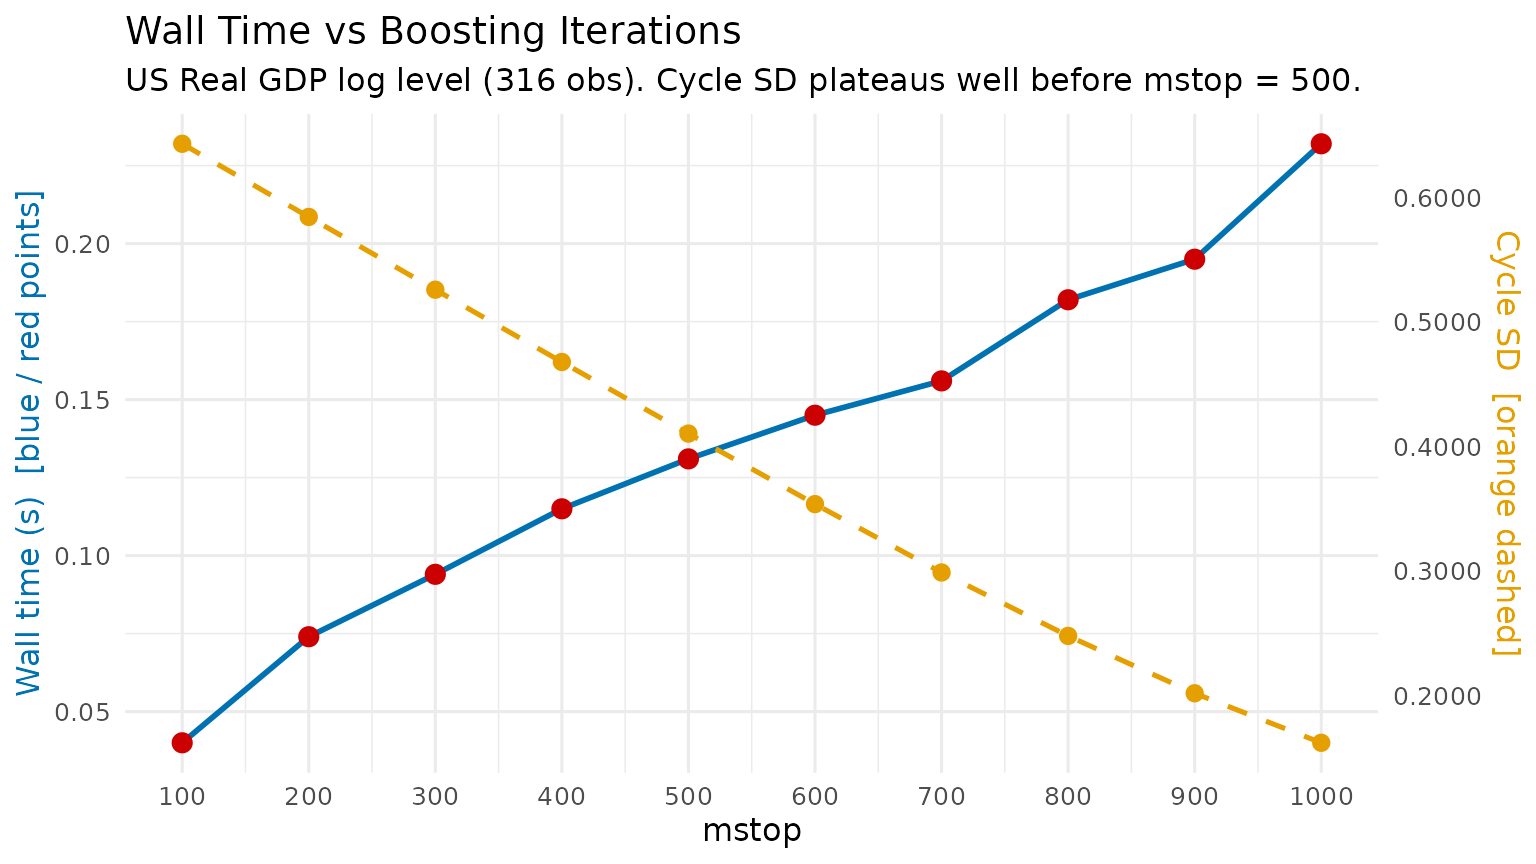
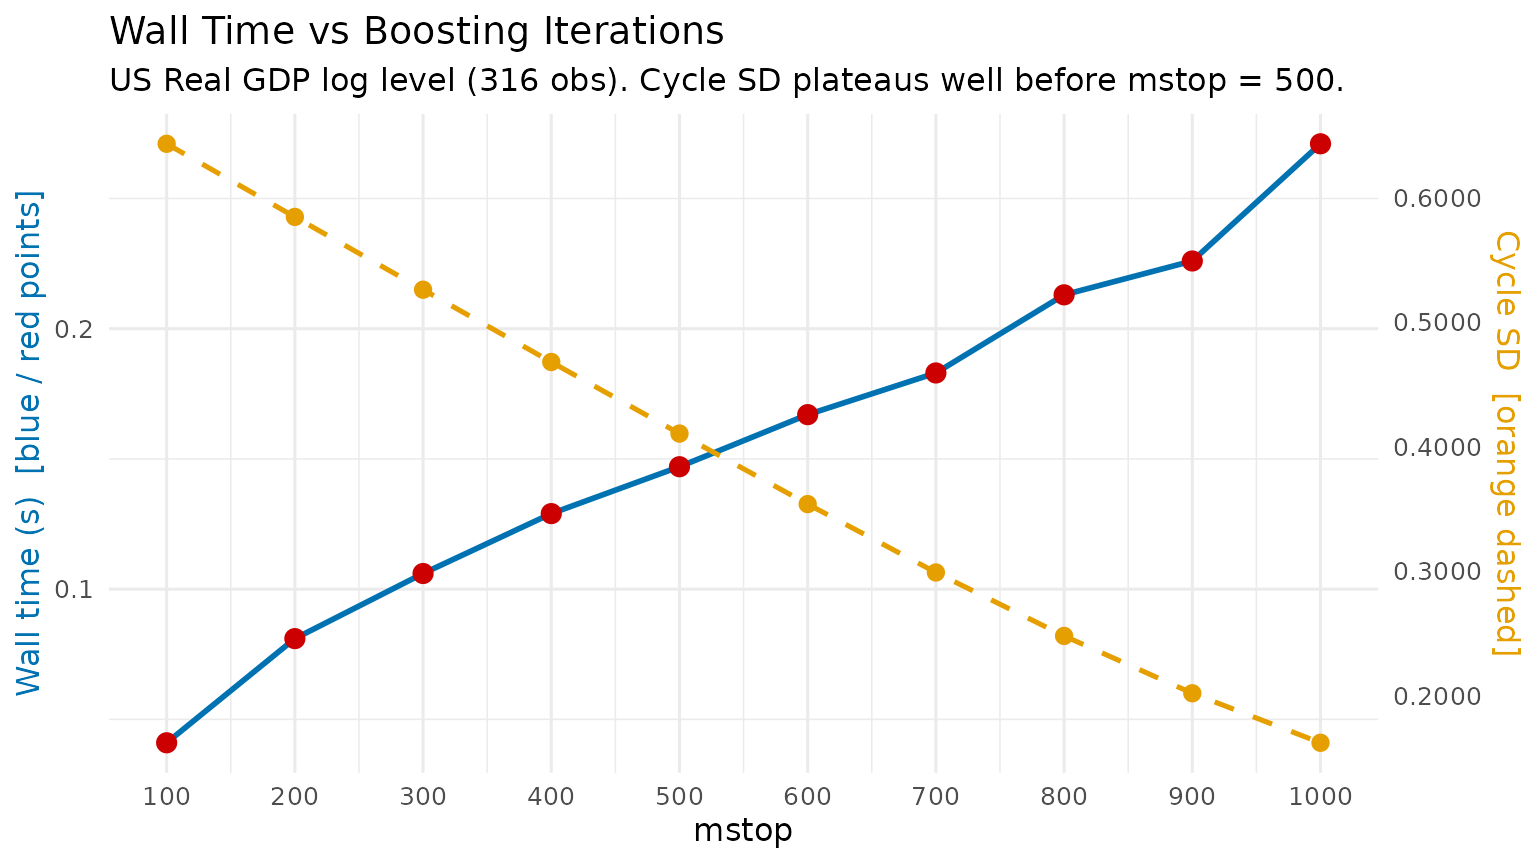
Deploying to gh-pages from @ michal0091/MacroFilters@1572dac8be0b89f8bfea408c7ec9f540422b9f74 🚀

diff --git a/index.html b/index.html
@@ -16,8 +16,8 @@
 <script src="deps/bootstrap-5.3.1/bootstrap.bundle.min.js"></script><link href="deps/font-awesome-6.5.2/css/all.min.css" rel="stylesheet">
 <link href="deps/font-awesome-6.5.2/css/v4-shims.min.css" rel="stylesheet">
 <script src="deps/headroom-0.11.0/headroom.min.js"></script><script src="deps/headroom-0.11.0/jQuery.headroom.min.js"></script><script src="deps/bootstrap-toc-1.0.1/bootstrap-toc.min.js"></script><script src="deps/clipboard.js-2.0.11/clipboard.min.js"></script><script src="deps/search-1.0.0/autocomplete.jquery.min.js"></script><script src="deps/search-1.0.0/fuse.min.js"></script><script src="deps/search-1.0.0/mark.min.js"></script><!-- pkgdown --><script src="pkgdown.js"></script><meta property="og:title" content="Robust Trend-Cycle Decomposition for Macroeconomic Time Series">
-<meta name="description" content="Implements the Hybrid MacroBoost (MBH) protocol for decomposing macroeconomic time series into trend and cycle components. Unlike the standard Hodrick-Prescott filter, MacroFilters utilizes component-wise L2-boosting with robust loss functions (Huber) to handle extreme transient shocks (e.g., COVID-19) without inducing spurious trend shifts. The algorithm includes an automated two-layer diagnostic stage for unit roots and structural breaks, optimized via corrected AICc for computational efficiency.">
-<meta property="og:description" content="Implements the Hybrid MacroBoost (MBH) protocol for decomposing macroeconomic time series into trend and cycle components. Unlike the standard Hodrick-Prescott filter, MacroFilters utilizes component-wise L2-boosting with robust loss functions (Huber) to handle extreme transient shocks (e.g., COVID-19) without inducing spurious trend shifts. The algorithm includes an automated two-layer diagnostic stage for unit roots and structural breaks, optimized via corrected AICc for computational efficiency.">
+<meta name="description" content="Provides high-performance tools for macroeconomic trend extraction and filtering, specifically designed to solve the end-point problem in real-time. Implements the MacroBoost Hybrid (MBH) filter using penalized P-splines and gradient boosting. Unlike the standard Hodrick-Prescott filter, MacroFilters utilizes component-wise L2-boosting with robust loss functions (Huber) to handle extreme transient shocks (e.g., COVID-19) without inducing spurious trend shifts. The algorithm includes an automated two-layer diagnostic stage for unit roots and structural breaks, optimized via corrected AICc for computational efficiency. Methodology detailed in Kinel (2026) &lt;doi:10.2139/ssrn.6371138&gt;.">
+<meta property="og:description" content="Provides high-performance tools for macroeconomic trend extraction and filtering, specifically designed to solve the end-point problem in real-time. Implements the MacroBoost Hybrid (MBH) filter using penalized P-splines and gradient boosting. Unlike the standard Hodrick-Prescott filter, MacroFilters utilizes component-wise L2-boosting with robust loss functions (Huber) to handle extreme transient shocks (e.g., COVID-19) without inducing spurious trend shifts. The algorithm includes an automated two-layer diagnostic stage for unit roots and structural breaks, optimized via corrected AICc for computational efficiency. Methodology detailed in Kinel (2026) &lt;doi:10.2139/ssrn.6371138&gt;.">
 <meta property="og:image" content="https://michal0091.github.io/MacroFilters/logo.png">
 </head>
 <body>
@@ -65,6 +65,9 @@
 </h1>
 </div>
 <p><a href="https://lifecycle.r-lib.org/articles/stages.html#experimental" class="external-link"></a> <a href="https://github.com/michal0091/MacroFilters/actions/workflows/R-CMD-check.yaml" class="external-link"></a></p>
+<blockquote>
+<p><strong>Working Paper Available:</strong> The econometric methodology and mathematical proofs underlying this package are distributed via SSRN: <a href="https://ssrn.com/abstract=6371138" class="external-link">Robust Real-Time Macroeconomic Trend Extraction: A Gradient Boosting Approach</a>.</p>
+</blockquote>
 <p><strong>MacroFilters</strong> is a unified, high-performance library for extracting trend and cycle components from macroeconomic time series. It combines classical filters (Hodrick-Prescott, Hamilton, Boosted HP) with its flagship algorithm, the <strong>MacroBoost Hybrid (MBH)</strong> — a gradient-boosting filter with Huber loss that is <em>immune to structural shocks</em> such as COVID-19, financial crises, and wars.</p>
 <p><strong>Why MacroFilters instead of <code>mFilter</code> or <code>neverhpfilter</code>?</strong></p>
 <ul>

diff --git a/articles/introduction.html b/articles/introduction.html
@@ -256,7 +256,7 @@ estimates by construction</p>
 <span><span class="co">#&gt;    Observations : 100</span></span>
 <span><span class="co">#&gt;    Parameters   : h = 8, p = 4</span></span>
 <span><span class="co">#&gt;    Cycle range  : [-13.41, 11.8]  sd = 7.212</span></span>
-<span><span class="co">#&gt;    Compute time : 0.000 s</span></span></code></pre></div>
+<span><span class="co">#&gt;    Compute time : 0.001 s</span></span></code></pre></div>
 <p>Note that the first
 <math display="inline" xmlns="http://www.w3.org/1998/Math/MathML"><semantics><mrow><mi>h</mi><mo>+</mo><mi>p</mi><mo>−</mo><mn>1</mn></mrow><annotation encoding="application/x-tex">h + p - 1</annotation></semantics></math>
 observations of the trend and cycle are <code>NA</code>, because there
@@ -310,7 +310,7 @@ test</td>
 <span><span class="co">#&gt;    Observations : 100</span></span>
 <span><span class="co">#&gt;    Parameters   : lambda = 1600, iterations = 47, stopping_rule = bic</span></span>
 <span><span class="co">#&gt;    Cycle range  : [-5.487, 4.068]  sd = 1.857</span></span>
-<span><span class="co">#&gt;    Compute time : 0.003 s</span></span></code></pre></div>
+<span><span class="co">#&gt;    Compute time : 0.004 s</span></span></code></pre></div>
 <p>Internally, <strong>MacroFilters</strong> precomputes the sparse
 penalty matrix
 <math display="inline" xmlns="http://www.w3.org/1998/Math/MathML"><semantics><mrow><mi>Q</mi><mo>=</mo><msup><mrow><mo stretchy="true" form="prefix">(</mo><mi>I</mi><mo>+</mo><mi>λ</mi><mi>D</mi><mi>′</mi><mi>D</mi><mo stretchy="true" form="postfix">)</mo></mrow><mrow><mo>−</mo><mn>1</mn></mrow></msup></mrow><annotation encoding="application/x-tex">Q = (I + \lambda D'D)^{-1}</annotation></semantics></math>
@@ -466,7 +466,7 @@ dates.</p>
 <span><span class="co">#&gt;    Observations : 80</span></span>
 <span><span class="co">#&gt;    Parameters   : knots = 40, d = 2.789, mstop = 500, mstop_initial = 500, nu = 0.1, df = 4, select_mstop = FALSE</span></span>
 <span><span class="co">#&gt;    Cycle range  : [-26.64, 4.429]  sd = 4.087</span></span>
-<span><span class="co">#&gt;    Compute time : 0.123 s</span></span></code></pre></div>
+<span><span class="co">#&gt;    Compute time : 0.126 s</span></span></code></pre></div>
 <p><img src="introduction_files/figure-html/mbh-plot-1.png" class="r-plt" alt="" width="100%"></p>
 <hr>
 </div>
@@ -514,7 +514,7 @@ dates.</p>
 <span><span class="co">#&gt;    Observations : 80</span></span>
 <span><span class="co">#&gt;    Parameters   : knots = 40, d = 2.789, mstop = 500, mstop_initial = 500, nu = 0.1, df = 4, select_mstop = FALSE</span></span>
 <span><span class="co">#&gt;    Cycle range  : [-26.64, 4.429]  sd = 4.087</span></span>
-<span><span class="co">#&gt;    Compute time : 0.123 s</span></span></code></pre></div>
+<span><span class="co">#&gt;    Compute time : 0.126 s</span></span></code></pre></div>
 <p>The <code>print</code> method shows the method, the number of
 observations, the key parameters, the cycle range, and how long the
 filter took to run.</p>
@@ -549,7 +549,7 @@ filter took to run.</p>
 <span><span class="co">#&gt;  $ df            : int 4</span></span>
 <span><span class="co">#&gt;  $ select_mstop  : logi FALSE</span></span>
 <span><span class="co">#&gt;  $ boundary.knots: NULL</span></span>
-<span><span class="co">#&gt;  $ compute_time  : num 0.123</span></span></code></pre></div>
+<span><span class="co">#&gt;  $ compute_time  : num 0.126</span></span></code></pre></div>
 <p>The <code>meta</code> list stores every parameter used by the filter,
 making results fully reproducible from the object alone — no need to
 track arguments separately.</p>

diff --git a/articles/tuning_mbh.html b/articles/tuning_mbh.html
@@ -336,52 +336,52 @@ boosting and the trend responds to the COVID shock.</li>
 <tbody>
 <tr class="odd">
 <td align="right">100</td>
-<td align="right">0.040</td>
+<td align="right">0.041</td>
 <td align="right">0.643260</td>
 </tr>
 <tr class="even">
 <td align="right">200</td>
-<td align="right">0.074</td>
+<td align="right">0.081</td>
 <td align="right">0.584503</td>
 </tr>
 <tr class="odd">
 <td align="right">300</td>
-<td align="right">0.094</td>
+<td align="right">0.106</td>
 <td align="right">0.526034</td>
 </tr>
 <tr class="even">
 <td align="right">400</td>
-<td align="right">0.115</td>
+<td align="right">0.129</td>
 <td align="right">0.467963</td>
 </tr>
 <tr class="odd">
 <td align="right">500</td>
-<td align="right">0.131</td>
+<td align="right">0.147</td>
 <td align="right">0.410462</td>
 </tr>
 <tr class="even">
 <td align="right">600</td>
-<td align="right">0.145</td>
+<td align="right">0.167</td>
 <td align="right">0.353805</td>
 </tr>
 <tr class="odd">
 <td align="right">700</td>
-<td align="right">0.156</td>
+<td align="right">0.183</td>
 <td align="right">0.298887</td>
 </tr>
 <tr class="even">
 <td align="right">800</td>
-<td align="right">0.182</td>
+<td align="right">0.213</td>
 <td align="right">0.247910</td>
 </tr>
 <tr class="odd">
 <td align="right">900</td>
-<td align="right">0.195</td>
+<td align="right">0.226</td>
 <td align="right">0.201850</td>
 </tr>
 <tr class="even">
 <td align="right">1000</td>
-<td align="right">0.232</td>
+<td align="right">0.271</td>
 <td align="right">0.162069</td>
 </tr>
 </tbody>

diff --git a/authors.html b/authors.html
@@ -46,18 +46,19 @@
 
     <div class="section level2">
       <h2 id="citation">Citation</h2>
-      <p><small class="dont-index">Source: <a href="https://github.com/michal0091/MacroFilters/blob/main/DESCRIPTION" class="external-link"><code>DESCRIPTION</code></a></small></p>
+      <p><small class="dont-index">Source: <a href="https://github.com/michal0091/MacroFilters/blob/main/inst/CITATION" class="external-link"><code>inst/CITATION</code></a></small></p>
 
       <p>Kinel M (2026).
-<em>MacroFilters: Robust Trend-Cycle Decomposition for Macroeconomic Time Series</em>.
-R package version 0.0.0.9000, <a href="https://github.com/michal0091/MacroFilters" class="external-link">https://github.com/michal0091/MacroFilters</a>.
+“Robust Real-Time Macroeconomic Trend Extraction: A Gradient Boosting Approach.”
+<a href="https://doi.org/10.2139/ssrn.6371138" class="external-link">doi:10.2139/ssrn.6371138</a>, Working Paper, SSRN, <a href="https://ssrn.com/abstract=6371138" class="external-link">https://ssrn.com/abstract=6371138</a>.
 </p>
-      <pre>@Manual{,
-  title = {MacroFilters: Robust Trend-Cycle Decomposition for Macroeconomic Time Series},
+      <pre>@Unpublished{,
+  title = {Robust Real-Time Macroeconomic Trend Extraction: A Gradient Boosting Approach},
   author = {Michal Kinel},
   year = {2026},
-  note = {R package version 0.0.0.9000},
-  url = {https://github.com/michal0091/MacroFilters},
+  note = {Working Paper, SSRN},
+  url = {https://ssrn.com/abstract=6371138},
+  doi = {10.2139/ssrn.6371138},
 }</pre>
     </div>
 

diff --git a/reference/mbh_filter.html b/reference/mbh_filter.html
@@ -205,7 +205,7 @@ observations. Keep <code>df = 4</code> (the default) for real-time applications.
 <span class="r-out co"><span class="r-pr">#&gt;</span>    Observations : 200</span>
 <span class="r-out co"><span class="r-pr">#&gt;</span>    Parameters   : knots = 100, d = 0.9445, mstop = 500, mstop_initial = 500, nu = 0.1, df = 4, select_mstop = FALSE</span>
 <span class="r-out co"><span class="r-pr">#&gt;</span>    Cycle range  : [-4.17, 5.05]  sd = 1.721</span>
-<span class="r-out co"><span class="r-pr">#&gt;</span>    Compute time : 0.174 s</span>
+<span class="r-out co"><span class="r-pr">#&gt;</span>    Compute time : 0.173 s</span>
 </code></pre></div>
     </div>
   </main><aside class="col-md-3"><nav id="toc" aria-label="Table of contents"><h2>On this page</h2>

diff --git a/reference/bhp_filter.html b/reference/bhp_filter.html
@@ -147,7 +147,7 @@ Filter. <em>International Economic Review</em>, 62(2), 521–570.</p>
 <span class="r-out co"><span class="r-pr">#&gt;</span>    Observations : 200</span>
 <span class="r-out co"><span class="r-pr">#&gt;</span>    Parameters   : lambda = 1600, iterations = 100, stopping_rule = bic</span>
 <span class="r-out co"><span class="r-pr">#&gt;</span>    Cycle range  : [-1.713, 1.66]  sd = 0.6829</span>
-<span class="r-out co"><span class="r-pr">#&gt;</span>    Compute time : 0.009 s</span>
+<span class="r-out co"><span class="r-pr">#&gt;</span>    Compute time : 0.010 s</span>
 </code></pre></div>
     </div>
   </main><aside class="col-md-3"><nav id="toc" aria-label="Table of contents"><h2>On this page</h2>

diff --git a/reference/hp_filter.html b/reference/hp_filter.html
@@ -114,7 +114,7 @@ for the Frequency of Observations. <em>Review of Economics and Statistics</em>,
 <span class="r-out co"><span class="r-pr">#&gt;</span>    Observations : 200</span>
 <span class="r-out co"><span class="r-pr">#&gt;</span>    Parameters   : lambda = 1600</span>
 <span class="r-out co"><span class="r-pr">#&gt;</span>    Cycle range  : [-2.878, 3.83]  sd = 1.388</span>
-<span class="r-out co"><span class="r-pr">#&gt;</span>    Compute time : 0.002 s</span>
+<span class="r-out co"><span class="r-pr">#&gt;</span>    Compute time : 0.003 s</span>
 </code></pre></div>
     </div>
   </main><aside class="col-md-3"><nav id="toc" aria-label="Table of contents"><h2>On this page</h2>

diff --git a/articles/introduction.md b/articles/introduction.md
@@ -154,7 +154,7 @@ ham
 #>    Observations : 100
 #>    Parameters   : h = 8, p = 4
 #>    Cycle range  : [-13.41, 11.8]  sd = 7.212
-#>    Compute time : 0.000 s
+#>    Compute time : 0.001 s
 ```
 
 Note that the first $h + p - 1$ observations of the trend and cycle are
@@ -187,7 +187,7 @@ bhp
 #>    Observations : 100
 #>    Parameters   : lambda = 1600, iterations = 47, stopping_rule = bic
 #>    Cycle range  : [-5.487, 4.068]  sd = 1.857
-#>    Compute time : 0.003 s
+#>    Compute time : 0.004 s
 ```
 
 Internally, **MacroFilters** precomputes the sparse penalty matrix
@@ -296,7 +296,7 @@ mbh_res
 #>    Observations : 80
 #>    Parameters   : knots = 40, d = 2.789, mstop = 500, mstop_initial = 500, nu = 0.1, df = 4, select_mstop = FALSE
 #>    Cycle range  : [-26.64, 4.429]  sd = 4.087
-#>    Compute time : 0.123 s
+#>    Compute time : 0.126 s
 ```
 
 ![](introduction_files/figure-html/mbh-plot-1.png)
@@ -323,7 +323,7 @@ mbh_res
 #>    Observations : 80
 #>    Parameters   : knots = 40, d = 2.789, mstop = 500, mstop_initial = 500, nu = 0.1, df = 4, select_mstop = FALSE
 #>    Cycle range  : [-26.64, 4.429]  sd = 4.087
-#>    Compute time : 0.123 s
+#>    Compute time : 0.126 s
 ```
 
 The `print` method shows the method, the number of observations, the key
@@ -358,7 +358,7 @@ str(mbh_res$meta)
 #>  $ df            : int 4
 #>  $ select_mstop  : logi FALSE
 #>  $ boundary.knots: NULL
-#>  $ compute_time  : num 0.123
+#>  $ compute_time  : num 0.126
 ```
 
 The `meta` list stores every parameter used by the filter, making

diff --git a/authors.md b/authors.md
@@ -7,16 +7,18 @@
 ## Citation
 
 Source:
-[`DESCRIPTION`](https://github.com/michal0091/MacroFilters/blob/main/DESCRIPTION)
+[`inst/CITATION`](https://github.com/michal0091/MacroFilters/blob/main/inst/CITATION)
 
-Kinel M (2026). *MacroFilters: Robust Trend-Cycle Decomposition for
-Macroeconomic Time Series*. R package version 0.0.0.9000,
-<https://github.com/michal0091/MacroFilters>.
+Kinel M (2026). “Robust Real-Time Macroeconomic Trend Extraction: A
+Gradient Boosting Approach.”
+[doi:10.2139/ssrn.6371138](https://doi.org/10.2139/ssrn.6371138),
+Working Paper, SSRN, <https://ssrn.com/abstract=6371138>.
 
-    @Manual{,
-      title = {MacroFilters: Robust Trend-Cycle Decomposition for Macroeconomic Time Series},
+    @Unpublished{,
+      title = {Robust Real-Time Macroeconomic Trend Extraction: A Gradient Boosting Approach},
       author = {Michal Kinel},
       year = {2026},
-      note = {R package version 0.0.0.9000},
-      url = {https://github.com/michal0091/MacroFilters},
+      note = {Working Paper, SSRN},
+      url = {https://ssrn.com/abstract=6371138},
+      doi = {10.2139/ssrn.6371138},
     }

diff --git a/articles/tuning_mbh.md b/articles/tuning_mbh.md
@@ -241,16 +241,16 @@ knitr::kable(
 
 | mstop | Wall time (s) | Cycle SD |
 |------:|--------------:|---------:|
-|   100 |         0.040 | 0.643260 |
-|   200 |         0.074 | 0.584503 |
-|   300 |         0.094 | 0.526034 |
-|   400 |         0.115 | 0.467963 |
-|   500 |         0.131 | 0.410462 |
-|   600 |         0.145 | 0.353805 |
-|   700 |         0.156 | 0.298887 |
-|   800 |         0.182 | 0.247910 |
-|   900 |         0.195 | 0.201850 |
-|  1000 |         0.232 | 0.162069 |
+|   100 |         0.041 | 0.643260 |
+|   200 |         0.081 | 0.584503 |
+|   300 |         0.106 | 0.526034 |
+|   400 |         0.129 | 0.467963 |
+|   500 |         0.147 | 0.410462 |
+|   600 |         0.167 | 0.353805 |
+|   700 |         0.183 | 0.298887 |
+|   800 |         0.213 | 0.247910 |
+|   900 |         0.226 | 0.201850 |
+|  1000 |         0.271 | 0.162069 |
 
 MBH computational benchmark — US log GDP (316 obs)
 

diff --git a/index.md b/index.md
@@ -3,6 +3,11 @@
 [](https://lifecycle.r-lib.org/articles/stages.html#experimental)
 [](https://github.com/michal0091/MacroFilters/actions/workflows/R-CMD-check.yaml)
 
+> **Working Paper Available:** The econometric methodology and
+> mathematical proofs underlying this package are distributed via SSRN:
+> [Robust Real-Time Macroeconomic Trend Extraction: A Gradient Boosting
+> Approach](https://ssrn.com/abstract=6371138).
+
 **MacroFilters** is a unified, high-performance library for extracting
 trend and cycle components from macroeconomic time series. It combines
 classical filters (Hodrick-Prescott, Hamilton, Boosted HP) with its

diff --git a/reference/mbh_filter.md b/reference/mbh_filter.md
@@ -166,5 +166,5 @@ print(result)
 #>    Observations : 200
 #>    Parameters   : knots = 100, d = 0.9445, mstop = 500, mstop_initial = 500, nu = 0.1, df = 4, select_mstop = FALSE
 #>    Cycle range  : [-4.17, 5.05]  sd = 1.721
-#>    Compute time : 0.174 s
+#>    Compute time : 0.173 s
 ```
